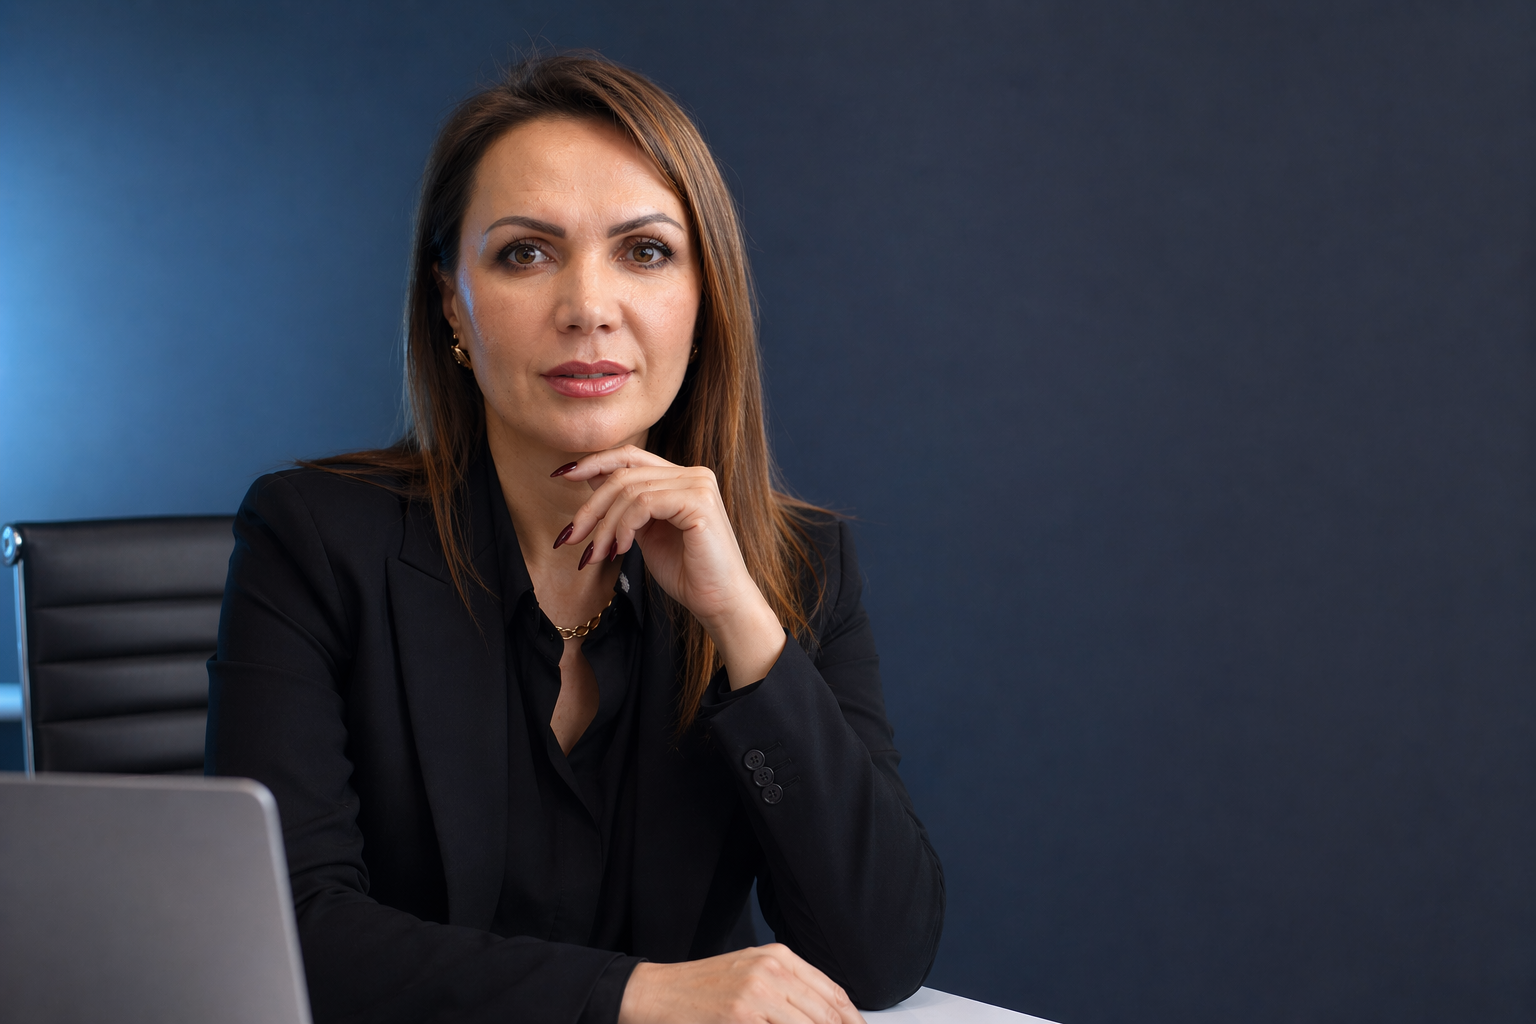
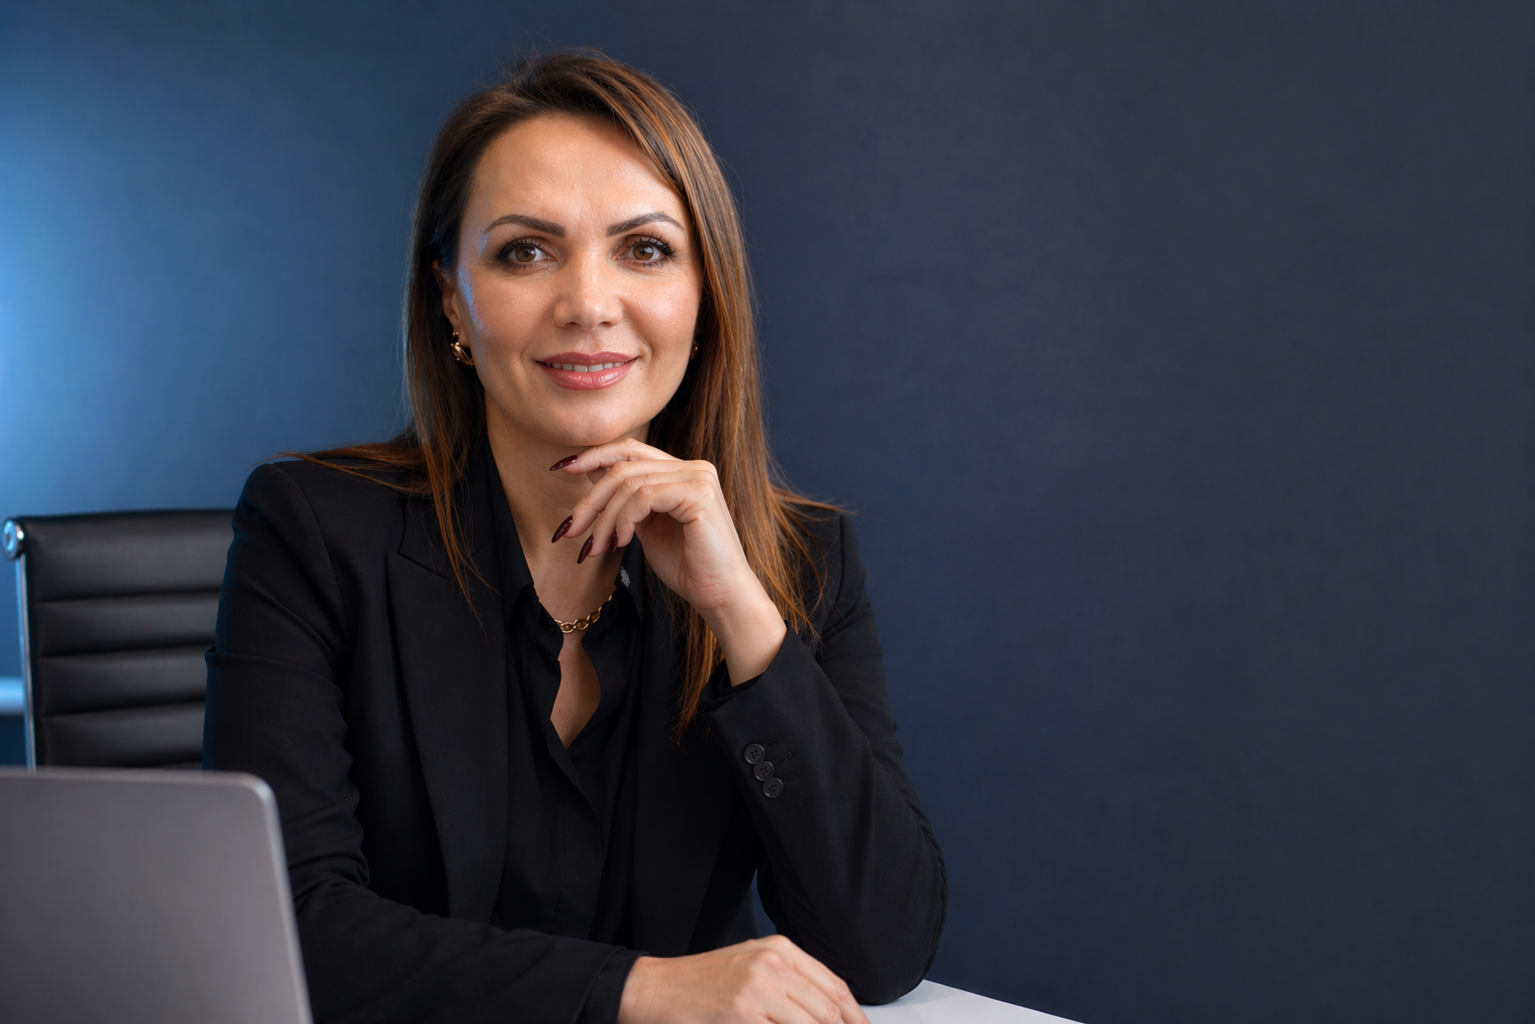
блок обо мне

diff --git a/styles.css b/styles.css
@@ -352,122 +352,92 @@ body[data-theme="light"] .cards-item.active {
 }
 
 .about {
-  display: grid;
-  grid-template-columns: minmax(240px, 320px) 1fr;
-  gap: 28px;
-  align-items: center;
+  display: block;
+  min-height: auto;
 }
 
-.about-photo-wrap {
-  width: 100%;
-  position: relative;
-  overflow: hidden;
-  border-radius: 16px;
+.about-inner {
+  max-width: 1100px;
+  margin: 0 auto;
+  padding: 40px 20px;
+}
+
+.about-hero {
+  display: flex;
+  align-items: center;
+  gap: 32px;
+  margin-bottom: 20px;
 }
 
 .about-photo {
+  width: 300px;
+  flex-shrink: 0;
   position: relative;
-  display: inline-block;
-  width: 100%;
-  border-radius: 16px;
+  border-radius: 20px;
   overflow: hidden;
-  box-shadow: 0 10px 30px rgba(0,0,0,0.2);
+  box-shadow: 0 16px 44px rgba(0, 0, 0, 0.32);
+  transform: translateY(-6px);
 }
 
 .about-photo img {
   width: 100%;
-  height: auto;
-  display: block;
-  border-radius: 16px;
+  height: 100%;
   object-fit: cover;
-  border: 1px solid var(--border);
-  transition: all 0.3s ease;
+  object-position: center;
+  display: block;
+  border-radius: 20px;
 }
 
 .about-photo::after {
   content: "";
   position: absolute;
   inset: 0;
-  border-radius: 16px;
-  pointer-events: none;
+  border-radius: 20px;
   background: linear-gradient(
-    to bottom,
-    rgba(0,0,0,0) 60%,
-    rgba(0,0,0,0.25)
+    to right,
+    rgba(0,0,0,0.38),
+    rgba(0,0,0,0)
   );
 }
 
-body.dark .about-photo::after {
-  background: linear-gradient(
-    to bottom,
-    rgba(0,0,0,0) 50%,
-    rgba(0,0,0,0.5)
-  );
+.about-head {
+  max-width: 600px;
 }
 
-body.light .about-photo::after {
-  background: linear-gradient(
-    to bottom,
-    rgba(255,255,255,0) 50%,
-    rgba(255,255,255,0.4)
-  );
+.about-head h1 {
+  font-size: 36px;
+  line-height: 1.2;
+  margin-bottom: 10px;
 }
 
-body[data-theme="dark"] .about-photo {
-  box-shadow: 0 10px 40px rgba(0, 210, 255, 0.15);
+.about-sub {
+  font-size: 16px;
+  margin: 0 0 20px;
+  opacity: 0.8;
 }
 
-body[data-theme="light"] .about-photo {
-  box-shadow: 0 10px 30px rgba(0,0,0,0.1);
-}
-
-.about-photo:hover img {
-  transform: scale(1.02);
-}
-
-.about-photo-glow {
-  position: absolute;
-  width: 140px;
-  height: 140px;
-  left: 50%;
-  top: 50%;
-  transform: translate(-50%, -50%);
-  border-radius: 50%;
-  pointer-events: none;
-  background: radial-gradient(circle, rgba(120, 200, 255, 0.16) 0%, rgba(120, 200, 255, 0) 70%);
-  opacity: 0;
-  transition: opacity 0.25s ease;
+.about-content {
+  max-width: 600px;
+  font-size: 16px;
+  line-height: 1.5;
 }
 
 .about-content p {
   margin: 0 0 12px;
 }
 
-.trust-line {
-  margin-top: 18px;
-  color: var(--text);
-  font-weight: 600;
-  font-size: 0.98rem;
+.about-content ul {
+  margin-top: 10px;
+  margin-bottom: 10px;
+  padding-left: 18px;
 }
 
-.section-subtitle {
-  margin-top: 12px;
-  font-size: clamp(14px, 2.5vw, 18px);
-  color: rgba(255, 255, 255, 0.65);
-  max-width: 600px;
+.about-content li {
+  margin-bottom: 6px;
 }
 
-body[data-theme="light"] .section-subtitle {
-  color: rgba(15, 23, 42, 0.6);
-}
-
-.process-text {
-  max-width: 600px;
-  max-height: 520px;
-  overflow: hidden;
-  display: flex;
-  flex-direction: column;
-  gap: 12px;
+body[data-theme="light"] .about-sub {
+  color: rgba(15, 23, 42, 0.7);
 }
 
 .process-text p {
@@ -662,15 +632,6 @@ body::after {
     padding: 56px 0;
   }
 
-  .about {
-    grid-template-columns: 1fr;
-  }
-
-  .about-photo {
-    width: 100%;
-    display: block;
-  }
-
   .nav a {
     display: none;
   }
@@ -711,12 +672,18 @@ body::after {
     padding-top: 48px;
   }
 
-  .about {
-    grid-template-columns: 1fr;
+  .about-hero {
+    flex-direction: column;
+    align-items: flex-start;
   }
 
-  .process-text {
-    max-height: none;
+  .about-photo {
+    width: 100%;
+    transform: none;
+  }
+
+  .about-head h1 {
+    font-size: clamp(28px, 8vw, 36px);
   }
 
 }

diff --git a/index.html b/index.html
@@ -65,27 +65,29 @@
       </div>
     </section>
 
-    <section id="about" class="container section about reveal">
-      <div class="about-photo-wrap about-photo">
-        <img src="./images/profile.jpg" alt="Эксперт по внедрению GPT-агентов">
-        <span class="about-photo-glow" aria-hidden="true"></span>
-      </div>
-      <div class="about-content">
-        <h2>Как я выстраиваю GPT-агентов под ваш бизнес</h2>
-        <p class="section-subtitle">Без сложной разработки и долгих внедрений</p>
-        <div class="process-text">
-          <p class="lead">Вы уже пробовали автоматизировать процессы — и получили ещё больше ручной работы.</p>
-          <p>Сервисы не стыкуются, процессы ломаются, команда тратит время, а результат нестабильный или его нет.</p>
-          <p>Я не внедряю “инструменты”. Я выстраиваю систему под конкретные задачи:</p>
+    <section id="about" class="section about reveal">
+      <div class="about-inner">
+        <div class="about-hero">
+          <div class="about-photo">
+            <img src="./images/profile-new.jpg" alt="Эксперт по автоматизации бизнеса и GPT-агентам" loading="lazy">
+          </div>
+          <div class="about-head">
+            <h1>Как я выстраиваю GPT-агентов под ваш бизнес</h1>
+            <p class="about-sub"></p>
+          </div>
+        </div>
+        <div class="about-content">
+          <p class="lead">Вы уже пытались автоматизировать процессы — и получили ещё больше ручной работы.</p>
+          <p>Сервисы не стыкуются, процессы ломаются, результата нет.</p>
+          <p>Я собираю систему под ваш бизнес, где GPT-агенты закрывают задачи, а не создают новые.</p>
+          <p>Что вы получаете:</p>
           <ul class="process-list">
-            <li>документооборот (договоры, заявки, ответы клиентам)</li>
-            <li>юридические и консультационные агенты</li>
-            <li>копирайтинг и маркетинг под продажи</li>
-            <li>агенты для мягких ниш (астрология, нумерология)</li>
-            <li>операционные ассистенты под рутину</li>
+            <li>документы и заявки — без рутины</li>
+            <li>ответы клиентам — быстрее</li>
+            <li>маркетинг и продажи — с фокусом на результат</li>
           </ul>
-          <p class="final-accent">Каждый агент собирается под ваш процесс — не под шаблон</p>
-          <p class="result">Уже в первую неделю: меньше рутины, быстрее задачи, больше времени на деньги</p>
+          <p class="final-accent">Каждый агент — под ваш процесс.</p>
+          <p class="result">Уже в первую неделю: меньше рутины, больше времени на деньги.</p>
         </div>
       </div>
     </section>
